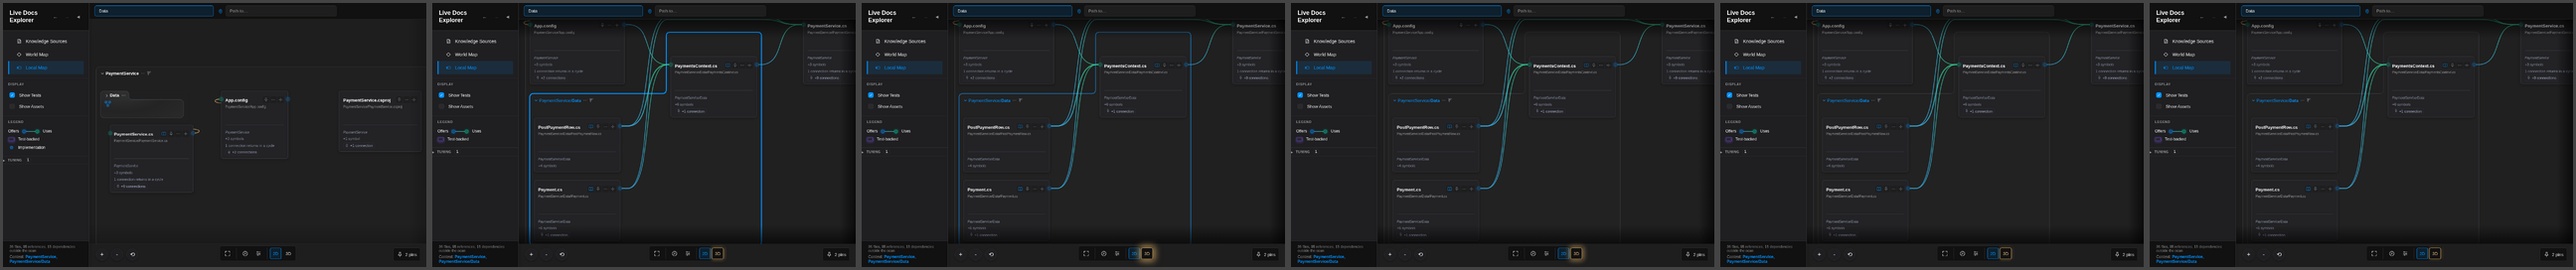
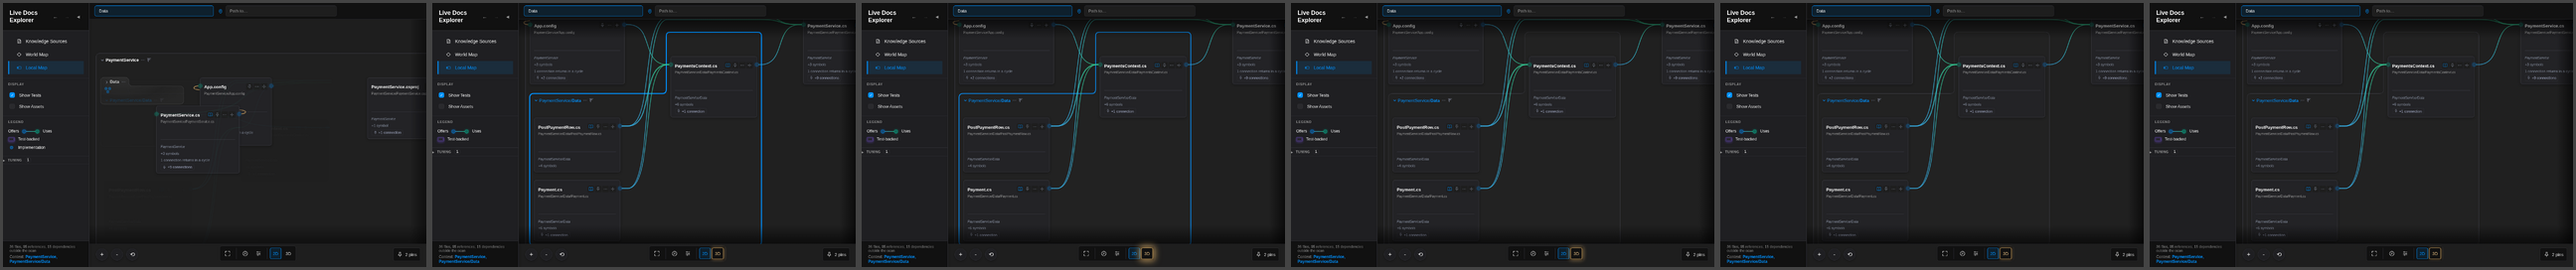
Picture the three steps again under each Step value, after the ease rule and the handle step
The step-framing evidence of November 21, taken again on the build that eases
only where the whole can be shown and counts a directory opened by its handle
as a step: the estate's Data opened inside PaymentService, this repository's
live-docs/history opened by its handle, and a cell's press, each under Least
Pan, Whole and With Its Lines, with the frames of each motion. The README says
what the eye sees in each, that the nearer bound for a step's ease could not
yet be compared since no folder tried falls between the two bounds, and that
the cut said at the edges is not finished.

diff --git a/AI-Agent-Workspace/AgentSessionHistory/2026/11/2026-11-21/Screenshots/step-framing/README.md b/AI-Agent-Workspace/AgentSessionHistory/2026/11/2026-11-21/Screenshots/step-framing/README.md
@@ -1,61 +1,55 @@
-# What a step frames: Tuning's Step trial, its first three values
+# What a step frames: Tuning's Step trial, second round
 
 _Historical evidence, taken on November 21, 2026 by the builder of the trial, on its branch's built site, at 1,280 by 800. The trial is described in [the Explorer design](../../../../../../../.mdmd/layer-3/live-documentation-explorer.mdmd.md), "What a step frames, a trial beside the least pan". It answers the blind playtest's picture of that day, [`007-click.png`](../../Probes/blind-playtests/estate-directory-sonnet-medium-arrival-then-neighbours/shots/007-click.png): `PaymentService/Data` opened, `Payment.cs` cut at the bottom and `PaymentService.cs` cut at the right edge._
 
+_The first round's pictures were replaced by these. The root ruled on them: an ease out that cannot deliver the whole is not taken, and a directory opened by its handle is a step under Least Pan too. Since then, Whole and With Its Lines ease only where some scale at or above the floor holds what they frame, else they do what Least Pan does; and opening a directory by its handle brings its label and first row into view under every value._
+
 ## The steps
 
-Each step was taken from the same starting picture under each value, in a fresh page with the continuing search off. Only the value of Tuning → 2D Layout → Step changed between runs.
+Each step was taken from the same starting picture under each value, in a fresh page with the continuing search off. Only Tuning → 2D Layout → Step changed between runs.
 
-1. **`estate-data`**: on the estate sample, the folder `PaymentService` was chosen in the search, as the playtester did, and then `PaymentService/Data` was opened by its handle. It fits whole at reading scale.
-2. **`repo-history`**: on this repository, the arrival at reading size on `packages/engine/src/live-docs/pathfind.ts`, and then `packages/engine/src/live-docs/history` was opened by its handle. This is the folder of the brief that does not fit at reading scale once opened.
-3. **`repo-cell`**: the same arrival, and then the first of `history`'s cells was pressed, which pins `bundled.test.ts` and brings its card in. This stands in for "a neighbour pinned from a card": a neighbour's pin from a card whose card is already in view brings no newcomer in today's code, so the lever has nothing to act on there.
+1. **`estate-data`**: on the estate sample, the folder `PaymentService` chosen in the search, as the playtester did, then `PaymentService/Data` opened by its handle.
+2. **`repo-history`**: on this repository, the arrival at reading size on `packages/engine/src/live-docs/pathfind.ts`, then `packages/engine/src/live-docs/history` opened by the handle on its drawn label. No frame holds it whole at or above the floor.
+3. **`repo-cell`**: the same arrival, then the first of `history`'s cells pressed, which pins `bundled.test.ts` and brings its card in. This stands in for "a neighbour pinned from a card", because a neighbour pinned from a card whose card is already in view brings no newcomer.
 
 ## The files
 
-For each step there is:
+For each step:
 - `<step>--before.png`: the starting picture;
 - `<step>--<value>--rest.png`: the picture at rest after the step;
-- `<step>--<value>--frames.png`: six of the frames taken one after another during the 2.6 s after the press, left to right.
+- `<step>--<value>--frames.png`: six frames taken one after another during the 2.6 s after the press, left to right.
 
 The values are `least` (Least Pan, the default), `whole` (Whole) and `lines` (With Its Lines). The script is [`shots.mjs`](shots.mjs), run through the browser lane on the built site.
 
-Scales at rest: reading scale is 1 in every start.
+Scales at rest (reading scale is 1 in every start):
 
 | Step | Least Pan | Whole | With Its Lines |
 | --- | ---: | ---: | ---: |
 | `estate-data` | 1 | 1 | 0.907 |
-| `repo-history` | 1 | 0.335 (the floor) | 0.335 (the floor) |
+| `repo-history` | 1 | 1 | 1 |
 | `repo-cell` | 1 | 1 | 0.764 |
 
 ## What I see
 
-- **`estate-data`, Least Pan.** This is no longer the playtest's picture, because two faults found while building the trial are mended in it (below). The camera now pans up to `Data`'s own label and first row, and `Payment.cs` happens to come in whole at the foot. `PaymentService.cs` is still cut at the right edge.
-  - Before the mends, this step left `Payment.cs` cut at the bottom, as the playtest saw: the folder chosen in the search had left its own newcomer pending, and the pan went to that folder rather than to `Data`.
-- **`estate-data`, Whole.** The scale is kept. The camera pans up so that the whole `Data` membrane stands in view, its L-shaped top included, with `PaymentsContext.cs` at its top right and `Payment.cs` whole at its foot. `App.config` is cut at the top, and `PaymentService.cs` is still cut at the right, since neither is part of `Data`.
-  - Names stay at reading size. The person's place, `Data`'s label, moves up by about 120 px and stays recognisable.
-- **`estate-data`, With Its Lines.** The camera eases out to 0.907, and everything the playtester needed is whole: `Data`'s three files, `App.config`, and `PaymentService.cs` with its lines.
-  - The frames show the motion: the re-layout with `Data`'s outline marked at the old frame, then one ease outward. It reads as one move.
-  - Names shrink by a tenth and still read easily. To my eye this is the best of the three on this step.
-- **`repo-history`, Least Pan.** The label is held where it was pressed, and the opened directory runs off the right and the bottom. Only `summary.ts` and part of another card show.
-  - Opened by its handle, the label had been drawn before, so under today's rule this is no newcomer and there is no pan at all.
-- **`repo-history`, Whole.** The camera eases out to the floor, 0.335, since `history` does not fit whole even there. It then pans the least that brings `…/live-docs/history`'s label and `summary.ts`, its first row, into view, in the middle of the frame. `format.ts`, `textStore.ts` and `shape.ts` show to the right, and the pathfind neighbourhood shows above.
-  - The names are at the floor's size, small but legible.
-  - Most of `history` is still out of view, and the person's place moved a long way. On this folder, Whole buys a smaller picture and little more of the folder.
-- **`repo-history`, With Its Lines.** The floor again, with `history`'s label at the room's top left, and `summary.ts`, `format.ts`, `textStore.ts`, `shape.ts` and `bundled.ts` below it.
-  - The lower half and the right of the view are empty. This is the worst of the three on this step: what it shows is a corner of the folder at the smallest size, with empty map beside it.
-- **The fault behind both, found while looking.** In the first pictures, `history`'s label was out of view at the floor. Its "first row" had been read from every box the directory holds, and some of those stand above its label, beside the columns of the directory that encloses it. The pan entered there, with the label below the view.
-  - The first row is now read under the label. This mends Least Pan's newcomer too, wherever a membrane is not a rectangle.
-- **`repo-cell`, Least Pan and Whole.** These are the same: the scale is kept, and the new card `bundled.test.ts` is brought whole into view at the right, with `bundled.ts` beside it. The subject `pathfind.ts` is out of view to the left.
-- **`repo-cell`, With Its Lines.** The camera eases out to 0.764 to hold `bundled.test.ts` and the cards its lines reach. The names read.
+- **`estate-data`, Least Pan.** The camera pans up to `Data`'s label and first row, and `Payment.cs` comes in whole at the foot. `App.config` is cut at the top, and `PaymentService.cs` at the right edge.
+- **`estate-data`, Whole.** Nearly the same picture, since `Data` fits at reading size: `Data` whole, with `Payment.cs` lifted a little clear of the toolbar. On this step Whole buys little.
+- **`estate-data`, With Its Lines.** Still the best of the nine. The camera eases to 0.907, and `Data`'s three files, `App.config` and `PaymentService.cs` stand whole with every line of the step. The frames read as one move: the re-layout with `Data` outlined, then one ease.
+- **`repo-history`, all three.** These are now one picture. The scale is kept, and the camera pans the least that brings `history`'s label and `summary.ts`, its first row, into view at the right of the frame. The person keeps reading size and the subject's neighbourhood at the left. Most of `history` is still beyond the right and bottom edges: that is what the cut said at the edges is for (below).
+  - In the first round, Whole and With Its Lines threw the camera to a third of reading size here, and Least Pan left the label cut at the right edge.
+- **`repo-cell`, Least Pan and Whole.** The same: the scale kept, and the new card `bundled.test.ts` whole at the right, with `bundled.ts` beside it. The subject `pathfind.ts` is out of view to the left.
+- **`repo-cell`, With Its Lines.** Eased to 0.764 to hold `bundled.test.ts` and the cards its lines reach (`summary.ts`, `bundled.ts`, `queries.test.ts`). The names read.
 
-## What my eye says of the three, in short
+## The nearer bound for steps: not shown
 
-- **Least Pan** keeps the place best, and still cuts what the step produced whenever it is larger than the view.
-- **Whole** shows the opened thing whole where it fits at the scale, with the names unchanged: on the estate it is the playtest's fix at no cost. On a folder too large it drops to the floor, the place jumps, and what it shows is no more useful than Least Pan's.
-- **With Its Lines** gave the best estate picture, everything the question needed at nine tenths of reading size, and a useful pull back after the cell's press. On a large folder it is the worst, a corner at the floor with empty map beside it.
-- None of them cuts names past the floor. Whole and With Its Lines shrink them to it on the large folder.
+The root asked to try a nearer bound for a step's ease, two thirds of reading scale, against the Arrival floor (about a third), on folders of middling size, and to bring both.
 
-## Not built, and not pictured
+- On the steps above, nothing falls between the two bounds. The eases that happen stop at 0.907 and 0.764, above both bounds, and the folder that does not fit (`history`) needs less than either, so it no longer eases at all. Every picture here would be the same under either bound.
+- I tried two middling folders of this repository, opened from the `client` folder chosen in the search: `packages/explorer/src/client/panels` and `.../persistence`. Neither eased under Whole or With Its Lines with the Arrival floor, so they would not differ under the nearer bound either.
+- A folder whose whole needs between a third and two thirds of reading scale is still to be found before the comparison can be shown. The constant `STEP_FLOOR_RATIO` in `camera-intent.ts` holds the bound, so the comparison is one build away.
 
-- The fourth value: the least pan with a sign at each edge counting the cards it cuts. Its arithmetic (`cutByEdge`, `cutPan` in `camera-intent.ts`) is written and unit-tested; its interface is not built.
-- The motion as a recording: the frames are stills, six of each run.
+## Not finished: the cut said at the edges
+
+A lever of its own beside Step, Tuning → 2D Layout → **Cut Counted**, default off, is built in the working tree but not committed (`views/localView/cut-signs.ts` and its wiring). At each edge past which what the last step opened goes on, it draws an arrow and the count of its cards, a focus stop that pans to them.
+
+- **What the first look showed.** On the estate step it counted 31, 27 and 4 cards at three edges, where `Data` holds three files. None of the controls could be seen in the picture, and on `history` it drew none.
+- The cards it reads, or the place it draws them, are wrong. This is not yet found, and no picture of it is kept.
